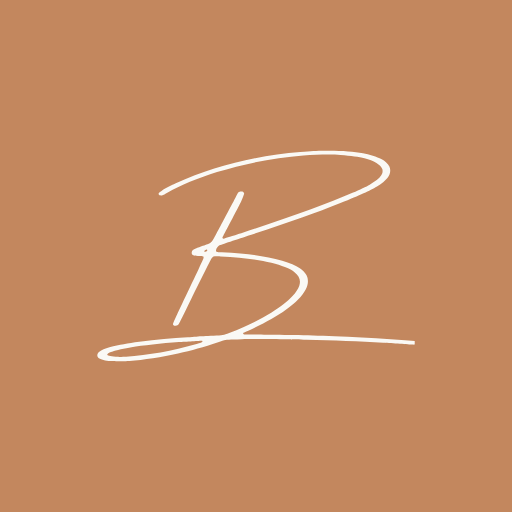
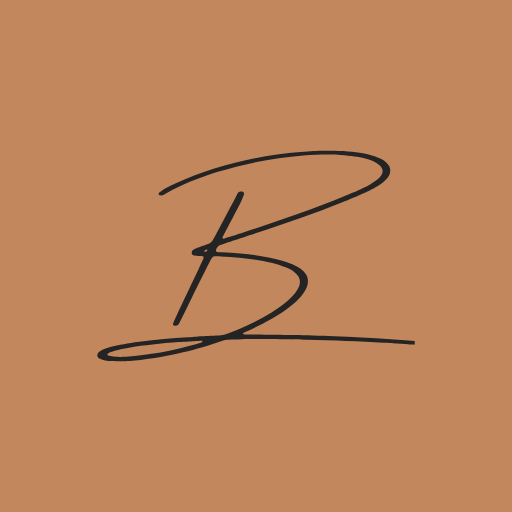
Encre sur les aplats dores, monogramme compris, et palette ramenee a dix couleurs
Version B retenue apres comparaison des deux rendus cote a cote.

Sur un aplat dore on ecrit en ENCRE, a 5.14, et non en blanc, a 3.02.
Le survol eclaire l aplat vers #CE9469 (encre a 5.96) au lieu de
l assombrir vers #A96E47, ou l encre tomberait a 3.70.

Le monogramme pose sur la meme plaque doree suit : les declinaisons
carre et maskable de /marque/ passent de l ivoire a l encre, et avec
elles les icones reellement servies a la racine, favicon.svg, favicon.png,
apple-touch-icon et les deux maskables. Le rendu compare de 16 a 128 px
montre que l encre tient mieux a toutes les tailles : la reserve des
32 px visait le monogramme filiforme pose sur l ivoire, pas celui de la
plaque, qui emporte son fond. Laisser la bibliotheque de marque et les
icones de production diverger aurait ete le defaut meme qu on corrige
ici sur la palette.

La page /marque/ affichait seize couleurs. Quatre n etaient appelees
nulle part dans styles.css, compte fait : le taupe plein #807869, le
sauge #959880, le sauge clair #D6D7CE et le dore sombre #A96E47. Deux
autres etaient des etats de survol, devenus des mentions. Restent dix
pastilles, groupees par role : les fonds, ce qui porte des mots, le
dore, les filets et le decor. Chacune dit son emploi.

Check i18n vert, planche regeneree.

Claude-Session: https://claude.ai/code/session_01SaHMBPzetS5rb3D5J93qsb

diff --git a/marque/index.html b/marque/index.html
@@ -61,7 +61,11 @@
                padding: .3rem .6rem; }
     .ds-dl a:hover { background: var(--bali-teck); border-color: var(--bali-teck); color: #fff; }
 
-    .ds-couleurs { display: grid; grid-template-columns: repeat(auto-fill, minmax(148px, 1fr)); gap: 0; }
+    .ds-couleurs { display: grid; grid-template-columns: repeat(auto-fill, minmax(168px, 1fr)); gap: 0; margin-bottom: 1.6rem; }
+    .ds-groupe { font-family: var(--font-sans); font-size: .74rem; font-weight: 600; letter-spacing: var(--tracking-small);
+      text-transform: uppercase; color: var(--text-muted); margin: 0 0 .55rem; }
+    .ds-role { display: block; margin-top: .3rem; font-family: var(--font-sans); font-size: .74rem;
+      line-height: 1.45; color: var(--text-sub); }
     /* Le libelle vit SOUS la couleur, jamais dessus : la moitie de la palette est faite de tons
        moyens ou aucun texte ne passe le seuil AA. Le poser sur le fond de la page le rend lisible
        pour toutes les valeurs, et dit au passage que ces couleurs-la sont des fonds. */
@@ -117,12 +121,12 @@
       <div class="ds-grid">
 
         <div class="ds-card">
-          <div class="ds-vue"><img src="/marque/monogramme_carre_ivoire-sur-teck.png" alt="Monogramme ivoire sur teck doré"></div>
+          <div class="ds-vue"><img src="/marque/monogramme_carre_encre-sur-teck.png" alt="Monogramme encre sur teck doré"></div>
           <div class="ds-corps">
-            <p class="ds-nom">Ivoire sur teck</p>
+            <p class="ds-nom">Encre sur teck</p>
             <p class="ds-usage">La déclinaison en production : icône d'application et favicon.</p>
-            <p class="ds-dl"><a href="/marque/monogramme_carre_ivoire-sur-teck.png" download>PNG</a>
-               <a href="/marque/monogramme_carre_ivoire-sur-teck.svg" download>SVG</a></p>
+            <p class="ds-dl"><a href="/marque/monogramme_carre_encre-sur-teck.png" download>PNG</a>
+               <a href="/marque/monogramme_carre_encre-sur-teck.svg" download>SVG</a></p>
           </div>
         </div>
 
@@ -137,12 +141,12 @@
         </div>
 
         <div class="ds-card">
-          <div class="ds-vue"><img src="/marque/monogramme_maskable_ivoire-sur-teck.png" alt="Monogramme maskable"></div>
+          <div class="ds-vue"><img src="/marque/monogramme_maskable_encre-sur-teck.png" alt="Monogramme maskable"></div>
           <div class="ds-corps">
             <p class="ds-nom">Maskable</p>
             <p class="ds-usage">Android, qui recadre en cercle ou en squircle. Tracé resserré pour survivre au rognage.</p>
-            <p class="ds-dl"><a href="/marque/monogramme_maskable_ivoire-sur-teck.png" download>PNG</a>
-               <a href="/marque/monogramme_maskable_ivoire-sur-teck.svg" download>SVG</a></p>
+            <p class="ds-dl"><a href="/marque/monogramme_maskable_encre-sur-teck.png" download>PNG</a>
+               <a href="/marque/monogramme_maskable_encre-sur-teck.svg" download>SVG</a></p>
           </div>
         </div>
 
@@ -167,10 +171,12 @@
         </div>
 
       </div>
-      <p class="ds-note"><b>Le monogramme ne tient pas en encre sur ivoire en petite taille.</b> Mesuré à 16 px,
-        ce tracé filiforme ne laisse que 2 pixels nettement sombres sur 256, le plus foncé à peine à 126/255
-        du blanc : il disparaît dans une barre d'onglets claire. C'est pourquoi la version en production
-        est reversée sur le doré.</p>
+      <p class="ds-note"><b>Le monogramme est passé à l'encre sur le doré le 11/09</b>, en même temps que
+        le texte des boutons. Il était en ivoire : mesuré sur la plaque dorée, l'ivoire donne 2.87:1 et
+        l'encre 5.14, et la comparaison rendue de 16 à 128 px confirme que l'encre tient mieux à toutes
+        les tailles, y compris les plus petites. La réserve qui suit vaut pour la variante claire, pas
+        pour celle-ci : un monogramme filiforme en encre sur ivoire, lui, s'efface sous 32 px, d'où la
+        plaque qui emporte son propre fond pour les favicons et les icônes d'application.</p>
     </section>
 
     <section class="legal-section">
@@ -202,39 +208,47 @@
     <section class="legal-section">
       <h2>La palette</h2>
       <hr class="bali-rule">
+      <h3 class="ds-groupe">Les fonds</h3>
       <div class="ds-couleurs">
-        <div class="ds-c"><span class="ds-chip" style="background:#C3875E;"></span><span class="ds-meta"><b>Doré de marque, CTA et logo</b><code>#C3875E</code><button type="button" data-hex="#C3875E">Copier</button></span></div>
-        <div class="ds-c"><span class="ds-chip" style="background:#A96E47;"></span><span class="ds-meta"><b>Doré sombre, survol de CTA</b><code>#A96E47</code><button type="button" data-hex="#A96E47">Copier</button></span></div>
-        <div class="ds-c"><span class="ds-chip" style="background:#CE9469;"></span><span class="ds-meta"><b>Doré clair, décor</b><code>#CE9469</code><button type="button" data-hex="#CE9469">Copier</button></span></div>
-        <div class="ds-c"><span class="ds-chip" style="background:#A85A20;"></span><span class="ds-meta"><b>Doré AA, texte</b><code>#A85A20</code><button type="button" data-hex="#A85A20">Copier</button></span></div>
-        <div class="ds-c"><span class="ds-chip" style="background:#8A4818;"></span><span class="ds-meta"><b>Doré AA survol</b><code>#8A4818</code><button type="button" data-hex="#8A4818">Copier</button></span></div>
-        <div class="ds-c"><span class="ds-chip" style="background:#242424;"></span><span class="ds-meta"><b>Encre</b><code>#242424</code><button type="button" data-hex="#242424">Copier</button></span></div>
-        <div class="ds-c"><span class="ds-chip" style="background:#6F685B;"></span><span class="ds-meta"><b>Taupe AA</b><code>#6F685B</code><button type="button" data-hex="#6F685B">Copier</button></span></div>
-        <div class="ds-c"><span class="ds-chip" style="background:#807869;"></span><span class="ds-meta"><b>Taupe, décor</b><code>#807869</code><button type="button" data-hex="#807869">Copier</button></span></div>
-        <div class="ds-c"><span class="ds-chip" style="background:#9C9084;"></span><span class="ds-meta"><b>Greige</b><code>#9C9084</code><button type="button" data-hex="#9C9084">Copier</button></span></div>
-        <div class="ds-c"><span class="ds-chip" style="background:#959880;"></span><span class="ds-meta"><b>Sauge</b><code>#959880</code><button type="button" data-hex="#959880">Copier</button></span></div>
-        <div class="ds-c"><span class="ds-chip" style="background:#D6D7CE;"></span><span class="ds-meta"><b>Sauge clair</b><code>#D6D7CE</code><button type="button" data-hex="#D6D7CE">Copier</button></span></div>
-        <div class="ds-c"><span class="ds-chip" style="background:#D9C19E;"></span><span class="ds-meta"><b>Sable</b><code>#D9C19E</code><button type="button" data-hex="#D9C19E">Copier</button></span></div>
-        <div class="ds-c"><span class="ds-chip" style="background:#F0E4CC;"></span><span class="ds-meta"><b>Sable clair</b><code>#F0E4CC</code><button type="button" data-hex="#F0E4CC">Copier</button></span></div>
-        <div class="ds-c"><span class="ds-chip" style="background:#FAF9F5; border-bottom:1px solid #E8E4DA;"></span><span class="ds-meta"><b>Ivoire</b><code>#FAF9F5</code><button type="button" data-hex="#FAF9F5">Copier</button></span></div>
-        <div class="ds-c"><span class="ds-chip" style="background:#F5F3EC; border-bottom:1px solid #E8E4DA;"></span><span class="ds-meta"><b>Ivoire 2</b><code>#F5F3EC</code><button type="button" data-hex="#F5F3EC">Copier</button></span></div>
-        <div class="ds-c"><span class="ds-chip" style="background:#FDFDFD; border-bottom:1px solid #E8E4DA;"></span><span class="ds-meta"><b>Blanc</b><code>#FDFDFD</code><button type="button" data-hex="#FDFDFD">Copier</button></span></div>
+        <div class="ds-c"><span class="ds-chip" style="background:#FAF9F5; border-bottom:1px solid #E8E4DA;"></span><span class="ds-meta"><b>Ivoire</b><code>#FAF9F5</code><span class="ds-role">Le fond de page, partout</span><button type="button" data-hex="#FAF9F5">Copier</button></span></div>
+        <div class="ds-c"><span class="ds-chip" style="background:#F5F3EC; border-bottom:1px solid #E8E4DA;"></span><span class="ds-meta"><b>Ivoire 2</b><code>#F5F3EC</code><span class="ds-role">Les sections et les panneaux</span><button type="button" data-hex="#F5F3EC">Copier</button></span></div>
+        <div class="ds-c"><span class="ds-chip" style="background:#FDFDFD; border-bottom:1px solid #E8E4DA;"></span><span class="ds-meta"><b>Blanc</b><code>#FDFDFD</code><span class="ds-role">Les cartes posées sur l'ivoire</span><button type="button" data-hex="#FDFDFD">Copier</button></span></div>
       </div>
+      <h3 class="ds-groupe">Ce qui porte des mots</h3>
+      <div class="ds-couleurs">
+        <div class="ds-c"><span class="ds-chip" style="background:#242424;"></span><span class="ds-meta"><b>Encre</b><code>#242424</code><span class="ds-role">Tout le texte courant, et le texte des boutons</span><button type="button" data-hex="#242424">Copier</button></span></div>
+        <div class="ds-c"><span class="ds-chip" style="background:#6F685B;"></span><span class="ds-meta"><b>Taupe AA</b><code>#6F685B</code><span class="ds-role">Le texte secondaire et les petits libellés</span><button type="button" data-hex="#6F685B">Copier</button></span></div>
+        <div class="ds-c"><span class="ds-chip" style="background:#A85A20;"></span><span class="ds-meta"><b>Doré AA</b><code>#A85A20</code><span class="ds-role">Les liens, les prix, les bordures, le focus. Survol&nbsp;: #8A4818</span><button type="button" data-hex="#A85A20">Copier</button></span></div>
+      </div>
+      <h3 class="ds-groupe">Le doré, qui ne porte pas de mots</h3>
+      <div class="ds-couleurs">
+        <div class="ds-c"><span class="ds-chip" style="background:#C3875E;"></span><span class="ds-meta"><b>Doré de marque</b><code>#C3875E</code><span class="ds-role">Le logo, l'aplat des boutons, les filets. Survol d'un aplat&nbsp;: #CE9469</span><button type="button" data-hex="#C3875E">Copier</button></span></div>
+      </div>
+      <h3 class="ds-groupe">Les filets et le décor</h3>
+      <div class="ds-couleurs">
+        <div class="ds-c"><span class="ds-chip" style="background:#D9C19E;"></span><span class="ds-meta"><b>Sable</b><code>#D9C19E</code><span class="ds-role">Le filet de 88&nbsp;px sous les titres, les bordures appuyées</span><button type="button" data-hex="#D9C19E">Copier</button></span></div>
+        <div class="ds-c"><span class="ds-chip" style="background:#F0E4CC;"></span><span class="ds-meta"><b>Sable clair</b><code>#F0E4CC</code><span class="ds-role">La fin du filet, les bordures discrètes</span><button type="button" data-hex="#F0E4CC">Copier</button></span></div>
+        <div class="ds-c"><span class="ds-chip" style="background:#9C9084;"></span><span class="ds-meta"><b>Greige</b><code>#9C9084</code><span class="ds-role">Le premier mot des titres deux tons, rien d'autre</span><button type="button" data-hex="#9C9084">Copier</button></span></div>
+      </div>
+      <p class="ds-note"><b>Dix couleurs, et pas une de plus.</b> Cette page en montrait seize. Quatre
+        n'étaient appelées nulle part dans le site : le taupe plein <code>#807869</code>, le sauge
+        <code>#959880</code>, le sauge clair <code>#D6D7CE</code> et un doré sombre <code>#A96E47</code>.
+        Elles restent les couleurs mesurées sur balinaisa.com, mais une charte qui affiche ce qu'elle
+        n'emploie pas invite à l'employer au hasard. Les deux survols, eux, sont devenus des mentions
+        plutôt que des pastilles : ce sont des états, pas des couleurs de plus.</p>
       <p class="ds-note"><b>Deux valeurs par teinte, et la raison tient en une mesure.</b> Le doré de la
         marque donne <b>2.87:1</b> sur l'ivoire : sous le seuil AA du texte (4.5), et même sous celui des
-        bordures et des anneaux de focus (3.0). Le taupe plein est à 4.15, le sauge à 2.82, le greige à 2.96.
-        Ces quatre-là sont des couleurs de <b>filet, d'aplat et de décor</b> : elles ne portent pas de mots.
-        Un lien, un libellé, un prix, une bordure, un anneau de focus prennent l'encre ou une
-        <b>variante AA</b> : doré AA <code>#A85A20</code> et taupe AA <code>#6F685B</code>, même teinte que
-        leur couleur de marque et calées sur le pire fond de la maison, l'ivoire 2 (4.56 et 4.97).</p>
-      <p class="ds-note"><b>Le CTA garde le doré de marque, sous un texte blanc</b>, comme le logo. C'est
-        la combinaison validée, après avoir essayé l'encre (5.14, jugée trop sombre) et un doré plus clair.
-        Le blanc sur ce doré donne <b>3.02:1</b>, sous le seuil AA du texte : écart assumé, et limité aux
-        grandes capitales chassées des boutons. Le survol assombrit vers <code>#A96E47</code>, où le blanc
-        remonte à 4.19. <b>La bordure d'un bouton vaut son fond</b> : aucun filet d'une autre couleur autour
-        d'un aplat, c'est l'aplat qui dessine le bouton.</p>
-      <p class="ds-note"><b>Le doré AA, lui, gagne un tiers de chroma</b> plutôt que de s'assombrir, sans quoi
-        il vire au brun à contraste égal. Réglage du 11/09/2026, après Lighthouse.</p>
+        bordures et des anneaux de focus (3.0). Le greige est à 2.96, le sable à 1.65. Ces couleurs-là sont
+        des couleurs de <b>filet, d'aplat et de décor</b> : elles ne portent pas de mots. Un lien, un
+        libellé, un prix, une bordure, un anneau de focus prennent l'encre ou une <b>variante AA</b> :
+        doré AA <code>#A85A20</code> et taupe AA <code>#6F685B</code>, même teinte que leur couleur de
+        marque et calées sur le pire fond de la maison, l'ivoire 2 (4.56 et 4.97). Le doré AA gagne un
+        tiers de chroma plutôt que de s'assombrir, sans quoi il vire au brun à contraste égal.</p>
+      <p class="ds-note"><b>Le CTA garde l'aplat doré de la marque et l'écrit en encre</b>, à
+        <b>5.14:1</b>. Le blanc dessus n'y tenait qu'à 3.02. <b>La bordure d'un bouton vaut son fond</b>,
+        et celle d'un bouton au filet vaut la couleur de son texte : aucun cadre d'une autre couleur autour
+        d'un bouton. Au survol, l'aplat s'éclaire vers <code>#CE9469</code> au lieu de s'assombrir, seul
+        sens qui garde l'encre confortable (5.96). Réglage du 11/09/2026, après Lighthouse.</p>
     </section>
 
     <section class="legal-section">

diff --git a/styles.css b/styles.css
@@ -27,12 +27,10 @@
   --bali-sable-clair: #F0E4CC;
   --bali-teck:        #C3875E;   /* dore de marque : aplats des CTA, filets, logo. A 2.87 sur
                                     ivoire il ne porte ni petit texte, ni bordure, ni anneau de
-                                    focus : ceux-la prennent la variante AA. Le blanc des CTA
-                                    poses dessus donne 3.02, sous le seuil AA du texte : ecart
-                                    assume par Charles le 11/09, l alternative etait l encre a
-                                    5.14, jugee trop sombre. */
-  --bali-teck-clair:  #CE9469;   /* dore clair, decor (2.47 sur ivoire) */
-  --bali-teck-hover:  #A96E47;   /* survol des aplats : le blanc y remonte a 4.19 */
+                                    focus : ceux-la prennent la variante AA. Ce qu on ecrit
+                                    DESSUS est l encre, a 5.14 ; le blanc n y tenait qu a 3.02. */
+  --bali-teck-clair:  #CE9469;   /* survol d un aplat de CTA : il s eclaire, l encre y monte a 5.96 */
+  --bali-teck-hover:  #A96E47;   /* dore sombre, DECOR seul : l encre n y tient qu a 3.70 */
   /* Variante AA du dore, v0.5 du 11/09/2026 : meme teinte que le dore de marque (25 deg contre
      24), mais un tiers de chroma en plus, ce qui la tient cuivree la ou un simple assombrissement
      vire au brun (essai #986039, ecarte le 11/09). C est elle qui porte le texte dore, les
@@ -60,14 +58,13 @@
                                                   texte, bordure et focus suivent. */
   --primary-dark:  var(--bali-dore-aa-hover);
   --primary-light: var(--bali-sable-clair);
-  /* Les APLATS de CTA gardent le dore de marque, sous un texte BLANC : c est la combinaison
-     validee par Charles, la meme que le logo. Elle donne 3.02, sous le seuil AA du texte (4.5),
-     ecart assume apres avoir essaye l encre (5.14) et un dore plus clair. Leur bordure vaut leur
-     fond : aucun filet d une autre couleur autour d un bouton. Le TEXTE dore hors bouton, lui,
-     garde la variante AA. */
+  /* Les APLATS de CTA gardent le dore de marque, sous un texte ENCRE : 5.14, conforme, la ou le
+     blanc ne tenait qu a 3.02. Arbitrage de Charles du 11/09, apres comparaison des deux rendus.
+     Leur bordure vaut leur fond : aucun filet d une autre couleur autour d un bouton. Le TEXTE
+     dore hors bouton, lui, garde la variante AA. */
   --primary-surface:       var(--bali-teck);
-  --primary-surface-hover: var(--bali-teck-hover);
-  --on-primary:            #FFFFFF;
+  --primary-surface-hover: var(--bali-teck-clair);   /* l aplat s eclaire : assombri, l encre tomberait a 3.70 */
+  --on-primary:            var(--bali-encre);
   --accent:        var(--bali-sable);
   --accent-light:  var(--bali-ivoire-2);
 
@@ -301,7 +298,7 @@ input, textarea, select { font-family: var(--font-sans); }
   position: absolute;
   inset: -4px;
   border-radius: 0;
-  border: 2px solid rgba(255,255,255,.55);
+  border: 2px solid rgba(36,36,36,.4);   /* etait blanc : invisible sur l aplat dore */
   pointer-events: none;
   animation: widget-ring 2.8s ease-in-out infinite;
 }

diff --git a/en/presse/index.html b/en/presse/index.html
@@ -152,7 +152,7 @@
 
     .pdf-dl { margin: 0 0 1.8rem; }
     .pdf-dl a {
-      display: inline-block; background: var(--primary-surface, #C3875E); color: var(--on-primary, #FFFFFF);
+      display: inline-block; background: var(--primary-surface, #C3875E); color: var(--on-primary, #242424);
       border: 1px solid var(--primary-surface, #C3875E); padding: 10px 19px; border-radius: 0;
       font-family: var(--font-caps); font-weight: 400; font-size: .81rem;
       letter-spacing: var(--tracking-caps, .14em); text-transform: uppercase;
@@ -181,13 +181,13 @@
     }
     .end-cta p { margin: 0 0 1.1rem; font-size: .96rem; color: var(--text-muted, #6F685B); }
     .end-cta a {
-      display: inline-block; background: var(--primary-surface, #C3875E); color: var(--on-primary, #FFFFFF);
+      display: inline-block; background: var(--primary-surface, #C3875E); color: var(--on-primary, #242424);
       border: 1px solid var(--primary-surface, #C3875E); padding: 13px 29px; border-radius: 0;
       font-family: var(--font-caps); font-weight: 400; font-size: .88rem;
       letter-spacing: var(--tracking-caps, .14em); text-transform: uppercase;
       text-decoration: none;
     }
-    .end-cta a:hover { background: var(--primary-surface-hover, #A96E47); }
+    .end-cta a:hover { background: var(--primary-surface-hover, #CE9469); }
     .facts { list-style: none; padding: 0; margin: .6rem 0 0; }
     .facts li { padding: .45rem 0; border-bottom: 1px solid var(--border, #F0E4CC); }
     .facts li:last-child { border-bottom: 0; }

diff --git a/presse/index.html b/presse/index.html
@@ -149,7 +149,7 @@
 
     .pdf-dl { margin: 0 0 1.8rem; }
     .pdf-dl a {
-      display: inline-block; background: var(--primary-surface, #C3875E); color: var(--on-primary, #FFFFFF);
+      display: inline-block; background: var(--primary-surface, #C3875E); color: var(--on-primary, #242424);
       border: 1px solid var(--primary-surface, #C3875E); padding: 10px 19px; border-radius: 0;
       font-family: var(--font-caps); font-weight: 400; font-size: .81rem;
       letter-spacing: var(--tracking-caps, .14em); text-transform: uppercase;
@@ -178,13 +178,13 @@
     }
     .end-cta p { margin: 0 0 1.1rem; font-size: .96rem; color: var(--text-muted, #6F685B); }
     .end-cta a {
-      display: inline-block; background: var(--primary-surface, #C3875E); color: var(--on-primary, #FFFFFF);
+      display: inline-block; background: var(--primary-surface, #C3875E); color: var(--on-primary, #242424);
       border: 1px solid var(--primary-surface, #C3875E); padding: 13px 29px; border-radius: 0;
       font-family: var(--font-caps); font-weight: 400; font-size: .88rem;
       letter-spacing: var(--tracking-caps, .14em); text-transform: uppercase;
       text-decoration: none;
     }
-    .end-cta a:hover { background: var(--primary-surface-hover, #A96E47); }
+    .end-cta a:hover { background: var(--primary-surface-hover, #CE9469); }
     .facts { list-style: none; padding: 0; margin: .6rem 0 0; }
     .facts li { padding: .45rem 0; border-bottom: 1px solid var(--border, #F0E4CC); }
     .facts li:last-child { border-bottom: 0; }

diff --git a/embed.js b/embed.js
@@ -84,12 +84,12 @@
       'border:2px solid rgba(154,106,51,.50);pointer-events:none;',
       'animation:bdw-ring 2.8s ease-in-out infinite;}',
     '#balinaisa-ai-widget a{position:relative;display:flex;align-items:center;gap:9px;',
-      'background:#C3875E;color:#fff;border:none;border-radius: 0;padding:13px 20px 13px 16px;',
+      'background:#C3875E;color:#242424;border:none;border-radius: 0;padding:13px 20px 13px 16px;',
       'font-family:Inter,system-ui,-apple-system,Segoe UI,Roboto,sans-serif;font-size:14px;',
       'font-weight:500;line-height:1;letter-spacing:-.01em;text-decoration:none;cursor:pointer;',
       'overflow:hidden;white-space:nowrap;-webkit-tap-highlight-color:transparent;',
       'transition:transform .2s ease,background .2s ease,box-shadow .2s ease;}',
-    '#balinaisa-ai-widget a:hover{background:#A96E47;transform:scale(1.04);}',
+    '#balinaisa-ai-widget a:hover{background:#CE9469;transform:scale(1.04);}',
     '#balinaisa-ai-widget a:active{transform:scale(.97);}',
     '#balinaisa-ai-widget a:focus-visible{outline:3px solid rgba(154,106,51,.55);outline-offset:3px;}',
     '#balinaisa-ai-widget svg{flex-shrink:0;}',

diff --git a/merci.html b/merci.html
@@ -37,9 +37,9 @@
   <style>
     :root {
       --bg: #F5F3EC; --bg-card: #FDFDFD; --primary: #A85A20; --primary-dark: #8A4818;
-      /* Le CTA garde le dore de marque sous un texte blanc, comme le logo. Sa bordure vaut
-         son fond : aucun filet d une autre couleur autour d un bouton. 11/09. */
-      --primary-surface: #C3875E; --primary-surface-hover: #A96E47; --on-primary: #FFFFFF;
+      /* Le CTA garde le dore de marque, avec l ENCRE dessus (5.14). Sa bordure vaut son fond :
+         aucun filet d une autre couleur autour d un bouton. 11/09. */
+      --primary-surface: #C3875E; --primary-surface-hover: #CE9469; --on-primary: #242424;
       --text: #242424; --text-sub: #807869; --text-muted: #6F685B; --border: #F0E4CC;
       --font-serif: 'Cormorant Garamond', Georgia, serif; --font-sans: 'Inter', system-ui, sans-serif;
       --font-caps: 'Josefin Sans', 'Century Gothic', 'Avenir', sans-serif;

diff --git a/result.html b/result.html
@@ -30,9 +30,9 @@
     :root {
       --bg: #FAF9F5;
       --primary: #A85A20;
-      /* Le CTA garde le dore de marque sous un texte blanc, comme le logo. 11/09. */
+      /* Le CTA garde le dore de marque, avec l ENCRE dessus (5.14). 11/09. */
       --primary-surface: #C3875E;
-      --on-primary: #FFFFFF;
+      --on-primary: #242424;
       --accent: #D9C19E;
       --text: #242424;
       --muted: #6F685B;   /* taupe AA, 5.24 sur ivoire ; le gris v0.2 #6C6C6C est retire de la charte */

diff --git a/marque/README.md b/marque/README.md
@@ -67,9 +67,9 @@ navigateur par `getBBox()`.
 
 | fichier | usage |
 |---|---|
-| `monogramme_carre_ivoire-sur-teck` | icône d'application et favicon. C'est la déclinaison en production. |
+| `monogramme_carre_encre-sur-teck` | icône d'application et favicon. C'est la déclinaison en production. L'encre a remplacé l'ivoire le 11/09 : sur la plaque dorée, l'ivoire donne 2.87 et l'encre 5.14, et le rendu comparé de 16 à 128 px confirme le gain à toutes les tailles. |
 | `monogramme_carre_encre-sur-ivoire` | variante claire, pour un support où le doré jure. Voir la réserve ci-dessous. |
-| `monogramme_maskable_ivoire-sur-teck` | Android. Tracé à 62 % de large, demi-diagonale 0.372 sous la limite de 0.400 de la zone sûre : recadrage en cercle ou en squircle sans rognage. |
+| `monogramme_maskable_encre-sur-teck` | Android. Tracé à 62 % de large, demi-diagonale 0.372 sous la limite de 0.400 de la zone sûre : recadrage en cercle ou en squircle sans rognage. |
 | `monogramme_libre_encre_transparent` | tracé seul, sur fond clair maîtrisé. |
 | `monogramme_libre_ivoire_transparent` | tracé seul, sur fond sombre ou photo. |
 
@@ -95,4 +95,5 @@ couvre l'écran comme l'impression courante.
 Les icônes effectivement servies par le site (favicon, apple-touch-icon, icônes
 maskables) vivent à la RACINE du dépôt, pas ici : elles sont référencées par les
 pages et versionnées avec elles. Ce dossier est la bibliothèque de marque, à
-partager. Modifier un fichier ici ne change rien au site.
+partager. Modifier un fichier ici ne change rien au site : les deux jeux se
+régénèrent ensemble, comme le 11/09 lors du passage à l'encre.
